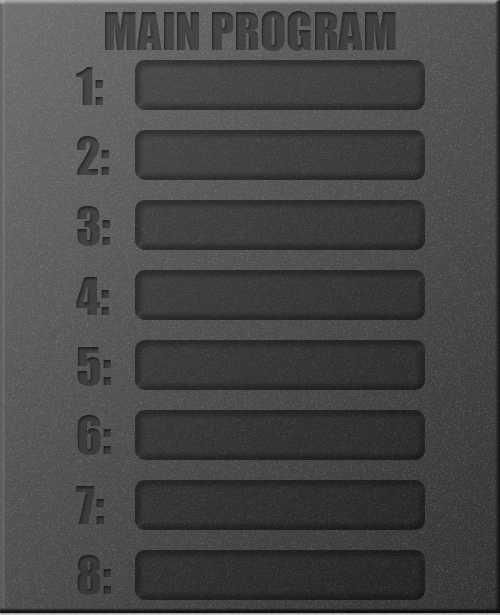
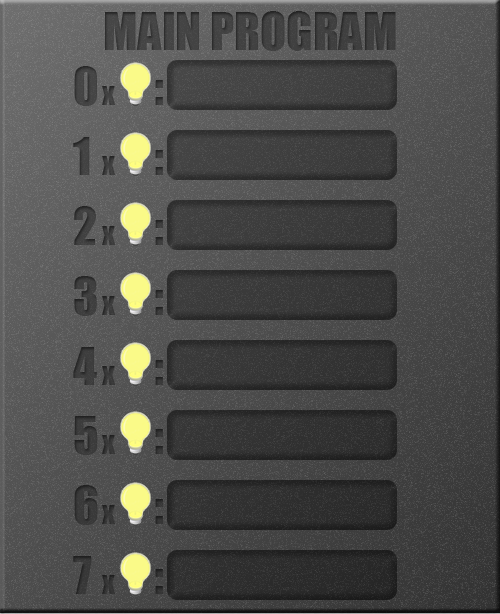
Draggable is now more generic and works for macro

Changed region(s): [[0.0, 0.0928, 1.0, 1.0], [0.78, 0.0928, 0.87, 0.8664]]

diff --git a/core/src/com/bob/game/inputs/MacroLayer.java b/core/src/com/bob/game/inputs/MacroLayer.java
@@ -12,12 +12,14 @@ import com.bob.game.Layer;
 
 public class MacroLayer extends Layer {
     private final Skin skin;
-    private String[] macros;
+    private Image[] images;
+    private Macro[] macros;
     private DragAndDrop.Target[] targets;
 
     public MacroLayer(Skin skin) {
         this.skin = skin;
         this.targets = new DragAndDrop.Target[8];
+        this.images = new Image[8];
 
         Image topCache = new Image(new Texture("resources/screens/macro_top.png"));
         topCache.setBounds(1400, 720, 500, 310);
@@ -27,14 +29,14 @@ public class MacroLayer extends Layer {
         botCache.setBounds(1400, 80, 500, 615);
         addActor(botCache);
 
-        Texture macroTarget = new Texture("resources/blocks/target.png");
+        Texture macroTarget = new Texture("resources/blocks/macro_target.png");
 
         for (int i = 0; i < 8; ++i) {
             Image bkgImage = new Image(macroTarget);
 
             final int index = i;
 
-            bkgImage.setBounds(1535, 585 - i * 70, 290, 50);
+            bkgImage.setBounds(1567, 585 - i * 70, 230, 50);
 
             addActor(bkgImage);
 
@@ -49,7 +51,7 @@ public class MacroLayer extends Layer {
                 }
 
                 public void drop(DragAndDrop.Source source, DragAndDrop.Payload payload, float x, float y, int pointer) {
-                    setMacro(index , (String)payload.getObject()); // TODO define object more precisely
+                    setMacro(index , (Macro)payload.getObject()); // TODO define object more precisely
                 }
             };
 
@@ -74,11 +76,30 @@ public class MacroLayer extends Layer {
     }
 
 
-    private void setMacro(int index, String macro) {
+    private void setMacro(int index, Macro macro) {
         macros[index] = macro;
     }
 
-    public void setMacros(String[] macros) {
+    /* TO REFACTOR SEE RULECELL FOR MERGE*/
+    /*
+    public void setImage(boolean isDragable) {
+
+            containImage = new Image(skin, block.getImageName());
+            containImage.setBounds(targetX, targetY, 50, 50);
+            layer.addActor(containImage);
+
+            if (isDragable) {
+                setMoveAbility();
+            }
+        }
+    }*/
+
+    /* ------ */
+    public void setMacros(Macro[] macros) {
         this.macros = macros;
+    }
+
+    public DragAndDrop.Target[] getTargets() {
+        return targets;
     }
 }

diff --git a/core/src/com/bob/game/inputs/MacroManager.java b/core/src/com/bob/game/inputs/MacroManager.java
@@ -1,19 +1,21 @@
 package com.bob.game.inputs;
 
 import com.badlogic.gdx.scenes.scene2d.InputEvent;
+import com.badlogic.gdx.scenes.scene2d.ui.Image;
 import com.badlogic.gdx.scenes.scene2d.ui.Skin;
 import com.badlogic.gdx.scenes.scene2d.ui.TextButton;
 import com.badlogic.gdx.scenes.scene2d.utils.ClickListener;
+import com.badlogic.gdx.scenes.scene2d.utils.DragAndDrop;
 
 public class MacroManager {
     private MacroLayer macroLayer;
     private ModalLayer modalLayer;
     private InputsManager inputsManager;
-    private String[] macros;
+    private Macro[] macros;
 
     public MacroManager() {
         inputsManager = new InputsManager();
-        macros = new String[8];
+        macros = new Macro[8];
     }
 
     public void setLayers(MacroLayer macroLayer, ModalLayer modalLayer) {
@@ -23,7 +25,7 @@ public class MacroManager {
         this.macroLayer.setMacros(macros);
     }
 
-    public void addButtons(Skin skin) {
+    public void addButtons(final Skin skin) {
         macroLayer.addModalButton(this);
 
         // Submit modal button
@@ -33,18 +35,37 @@ public class MacroManager {
         button.addListener(new ClickListener() {
             @Override
             public void clicked(InputEvent event, float x, float y) {
-                submitModal();
+                submitModal(skin);
             };
         });
 
         modalLayer.addActor(button);
     }
 
-    private void submitModal() {
+    private void submitModal(Skin skin) {
         modalLayer.setVisibility(false);
 
-        String macroName = modalLayer.getText();
+        String title = modalLayer.getText();
+        Macro macro = new Macro(title, inputsManager.getRules());
 
+        Image dragImage = new Image(skin, "macro_block");
+        dragImage.setBounds(1415, 915, 230, 50);
+
+        final Draggable d = new Draggable(macroLayer, skin, dragImage, macro);
+
+        dragImage.addListener(new ClickListener() {
+            @Override
+            public void clicked(InputEvent event, float x, float y) {
+                if( getTapCount() == 2) {
+                    Macro m = (Macro)d.getPayLoad();
+                    displayMacroModal(m.getRules(), m.getTitle());
+                }
+            }
+        });
+
+        for (DragAndDrop.Target t : macroLayer.getTargets()) {
+            d.addTarget(t);
+        }
     }
 
     public void initView(Skin skin) {

diff --git a/core/src/com/bob/game/inputs/Draggable.java b/core/src/com/bob/game/inputs/Draggable.java
@@ -1,0 +1,61 @@
+package com.bob.game.inputs;
+
+import com.badlogic.gdx.scenes.scene2d.Actor;
+import com.badlogic.gdx.scenes.scene2d.InputEvent;
+import com.badlogic.gdx.scenes.scene2d.ui.Skin;
+import com.badlogic.gdx.scenes.scene2d.ui.TextTooltip;
+import com.badlogic.gdx.scenes.scene2d.utils.DragAndDrop;
+import com.bob.game.Layer;
+
+class Draggable {
+    private final Actor sourceActor;
+    private final DragAndDrop dragAndDrop;
+    private final Object payLoad;
+
+    public Draggable(Layer layer, Skin skin, Actor sourceActor, Object payloadObject) {
+        this(layer, skin, sourceActor, sourceActor, payloadObject);
+    }
+
+    public Draggable(Layer layer, final Skin skin, Actor sourceActor, final Actor dragActor, final Object payloadObject) {
+
+        this.sourceActor = sourceActor;
+        this.payLoad = payloadObject;
+
+        layer.addActor(sourceActor);
+
+        dragAndDrop = new DragAndDrop();
+        dragAndDrop.setDragActorPosition(-(sourceActor.getWidth()/2), sourceActor.getHeight()/2);
+        dragAndDrop.addSource(new DragAndDrop.Source(sourceActor) {
+            public DragAndDrop.Payload dragStart (InputEvent event, float x, float y, int pointer) {
+                DragAndDrop.Payload payload = new DragAndDrop.Payload();
+                payload.setObject(payloadObject);
+
+                payload.setDragActor(dragActor);
+
+                return payload;
+            }
+        });
+    }
+
+    public void addTarget(DragAndDrop.Target target) {
+        dragAndDrop.addTarget(target);
+    }
+
+    public void clear() {
+        sourceActor.remove();
+    }
+
+    public Actor getsourceActor() {
+        return sourceActor;
+    }
+
+    public void setTooltip(Skin skin, String tooltipText) {
+        TextTooltip tooltip = new TextTooltip("  " + tooltipText + "  ", skin, "tooltipStyle");
+        tooltip.setInstant(true);
+        sourceActor.addListener(tooltip);
+    }
+
+    public Object getPayLoad() {
+        return payLoad;
+    }
+}

diff --git a/core/src/com/bob/game/inputs/InputsLayer.java b/core/src/com/bob/game/inputs/InputsLayer.java
@@ -3,6 +3,7 @@ package com.bob.game.inputs;
 import com.badlogic.gdx.graphics.Color;
 import com.badlogic.gdx.graphics.Texture;
 import com.badlogic.gdx.graphics.g2d.BitmapFont;
+import com.badlogic.gdx.scenes.scene2d.ui.Image;
 import com.badlogic.gdx.scenes.scene2d.ui.Label;
 import com.badlogic.gdx.scenes.scene2d.ui.Skin;
 import com.badlogic.gdx.scenes.scene2d.ui.TextTooltip;
@@ -65,7 +66,13 @@ public class InputsLayer extends Layer {
     }
 
     public void createInput(Block block, int refX, int refY) {
-        Draggable draggable = new Draggable(group, skin, refX, refY, block, block.getImageName(), block.getTooltip());
+
+        Image dragImage = new Image(skin, block.getImageName());
+        Image draggingImage = new Image(skin, block.getImageName());
+        dragImage.setBounds(refX, refY, 50, 50);
+
+        Draggable draggable = new Draggable(this, skin, dragImage, draggingImage, block);
+        draggable.setTooltip(skin, block.getTooltip());
 
         for (DragAndDrop.Target t: targets) {
             draggable.addTarget(t);

diff --git a/core/src/com/bob/game/inputs/InputsManager.java b/core/src/com/bob/game/inputs/InputsManager.java
@@ -3,6 +3,7 @@ package com.bob.game.inputs;
 import com.badlogic.gdx.scenes.scene2d.ui.Skin;
 
 import java.util.LinkedList;
+import java.util.List;
 
 public class InputsManager {
 
@@ -128,5 +129,16 @@ public class InputsManager {
         }
 
         return blockStack;
+    }
+
+    public Block[][] getRules() {
+        Block[][] res = new Block[rules.length][];
+
+        for (int i = 0; i < res.length; i++) {
+            List<Block> blocks = rules[i].getBlockStack();
+            res[i] = blocks.toArray(new Block[blocks.size()]);
+        }
+
+        return res;
     }
 }

diff --git a/core/src/com/bob/game/levels/MacroLevel.java b/core/src/com/bob/game/levels/MacroLevel.java
@@ -2,7 +2,7 @@ package com.bob.game.levels;
 
 public enum MacroLevel implements LevelFactory {
     level1("resources/maps/tmx/macro.tmx",
-            11,11,
+            6,11,
             "Hi, my name is Bob!\n\nI am quite a simple robot and I am lost. Can you help me to reach the golden platform?\n\nTo do so, write rules I can follow in the box on the right!\nThanks for your help!"
     );
 

diff --git a/core/src/com/bob/game/inputs/Macro.java b/core/src/com/bob/game/inputs/Macro.java
@@ -1,0 +1,19 @@
+package com.bob.game.inputs;
+
+public class Macro {
+    private Block[][] rules;
+
+    private String title;
+    public Macro(String title, Block[][] rules) {
+        this.title = title;
+        this.rules = rules;
+    }
+
+    public Block[][] getRules() {
+        return rules;
+    }
+
+    public String getTitle() {
+        return title;
+    }
+}

diff --git a/core/src/com/bob/lps/model/CycleHandler.java b/core/src/com/bob/lps/model/CycleHandler.java
@@ -81,9 +81,9 @@ public final class CycleHandler {
 	 * Added by Matthieu on 05/05/16
 	 */
 	public void updateFireAndSolve() {
-		myState.handlerMethod(this, "UPDATE", events);
 		myState.handlerMethod(this, "FIRING", events);
 		myState.handlerMethod(this, "SOLVING", events);
+		myState.handlerMethod(this, "UPDATE", events);
 	}
 
 
